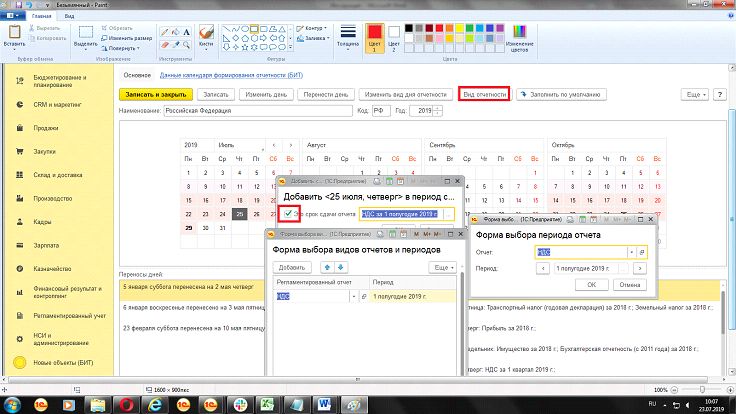
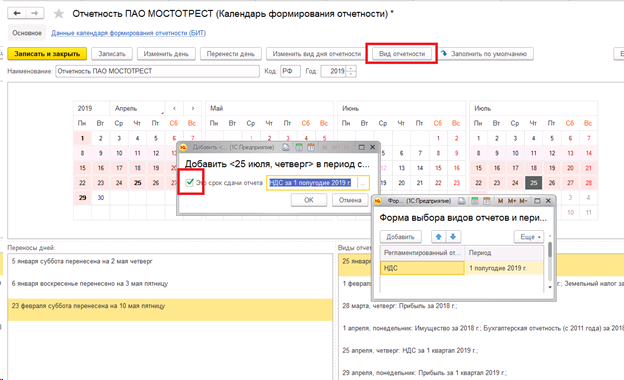
asup
+

diff --git a/js/all.js b/js/all.js
@@ -1142,8 +1142,8 @@ InputSync.prototype ={
 DR_EXPLAIN.namespace( 'DR_EXPLAIN.data_menu' );
 DR_EXPLAIN.data_menu = {
     // menu
-    DREX_NODE_NAMES: ["Начальная страница","1. Вопросы по аналитике ERP АСУП","2. ОПИСАНИЕ ОПЕРАЦИЙ","3. Вопросы по отражению операций","4. ТЕРМИНЫ И СОКРАЩЕНИЯ","5. ПОДГОТОВКА К РАБОТЕ","6. РЕКОМЕНДАЦИИ ПО ОСВОЕНИЮ","Описание изменений АСУП","1.1. Статьи бюджета","1.2. Формирование отчета «Графики отпусков команды» с учетом информации о периодах формирования и сдачи отчетности Общества","1.3. Функциональные блоки и разделы учета","Отчеты","2.1. Описание БП обработки Заявок на планируемый период","2.2. Инструкции по сопровождению","2.3. Инструкции по разработке","3.1. Как отразить состояние обработки Заявки?","3.2. Как отразить состояние обработки ЭО?","3.3. Как отразить состояние работ по задаче (задача проекта в сделке) ?","3.4. Как связать объект ERP с документом ДО?","3.5. Как отменить связь объекта ERP с документом ДО?","3.6. Как запланировать отпуск?","3.7. Не заполнена доступность ВРЦ на планируемый период, что делать?","3.8. Как запланировать выпуск работ по плану графику ЭО","3.9. Как оформить акт выполненных работ?","3.10. Как перепланировать работу в связи с появлением свободных часов?","5.1. Порядок проверки работоспособности","5.2. Порядок загрузки данных и программ","ERP","СППР","ДО","1.1.1. Как указать статью бюджета в заказе клиента?","1.2.1. Заполнение Календаря формирования отчетности","1.2.2. Сформировать отчет «Графики отпусков команды» с отбором по  «Календарь формирования отчетности» - «Российская Федерация»","АСУП Функциональные блоки: Состав","АСУП Разделы учета: Состав","ERP: Функциональные блоки","ERP: Разделы учета","Каким отчетом проверить количество и качество сделок на разработку?","Как сформировать отчет по заказам клиентов в разрезе видов сделок Сопровождение/Разработка?","Как посмотреть исполнение заказов клиентов?","Как посмотреть график отпусков команды?","БП реализации Заявки","РЕГУЛЯРНЫЕ ЗАДАЧИ БП","Практическое руководство пользователя по планированию и производству текущих работ по Сопровождению","2.3.1. Инструкциия по инструменту тестирования прикладных решений «Vanessa behavior»","2.3.2. Отражение отработанного времени в ERP","3.1.1. ДО: отражение состояния обработки Заявки","3.1.2. ERP: отражение состояния обработки Заявки (Сделка)","3.2.1. ДО: отражение состояния обработки ЭО","ERP: Создание, планирование и отражение состояние работ по задаче (задача проекта в сделке)","3.6.1. Формирование и согласование отпуска","3.6.2. Планирование отпуска в графике производства","Заполнить Производственный календрь","Заполнить График работы предприятия","Заполнить доступность ВРЦ","Заполнить внеплановую доступность ВРЦ","Новое в версии от 26.07.2019","Ввод данных по сопровождению","Ввод данных по разработке","Термины и определения","Планирование работ по Сопровождению в ЕРП","Оглавление","2.3.1.1. Feature файлы","2.3.1.2. Создание автотестов","2.3.1.3. Запуск выполнения сценариев","2.3.1.4. Требования к разработчикам","2.3.1.5. Требования к аналитикам","2.3.1.6. Детализация тестов","ERP: Изменение плановых дат задачи ( задача проекта в сделке)","Отражение кадрового документа «Отпуск»","Согласование кадрового документа «Отпуск»","График отпусков команды","Формирование ресурсной спецификации на отпуск","Формирование Заказа на  производств","Глоссарий","Список сокращений","Создание автоматизированных сценариев","Наполнение шагов сценариев кодом проверки поведения"],
-    DREX_NODE_LINKS: ["index.htm","voprosy_po_analitike_erp_asup.htm","opisanie_operatsij.htm","voprosy_po_otrazheniyu_operatsij.htm","terminy_i_sokrashcheniya.htm","podgotovka_k_rabote.htm","rekomendatsii_po_osvoeniyu.htm","opisanie_izmenenij_asup.htm","stati_byudzheta.htm","formirovanie_otcheta__grafiki_otpuskov_komandy__s_uchetom_informatsii_o_periodakh_formirovaniya_i_sdachi_otchetnosti_obshchestva.htm","funktsionalnye_bloki_i_razdely_ucheta.htm","otchety.htm","opisanie_bp_obrabotki_zayavok_na_planiruemyj_period.htm","instruktsii_po_soprovozhdeniyu.htm","instruktsii_po_razrabotke.htm","kak_otrazit_sostoyanie_obrabotki_zayavki_.htm","kak_otrazit_sostoyanie_obrabotki_eho_.htm","kak_otrazit_operatsiyu_v_novoj_sisteme_.htm","kak_svyazat_obekt_erp_s_dokumentom_do_.htm","kak_otmenit_svyaz_obekta_erp_s_dokumentom_do_.htm","kak_zaplanirovat_otpusk_.htm","ne_zapolnena_dostupnost_vrts_na_planiruemyj_period__chto_delat_.htm","kak_zaplanirovat_vypusk_rabot_po_planu_grafiku_eho.htm","kak_oformit_akt_vypolnennykh_rabot_.htm","kak_pereplanirovat_rabotu_v_svyazi_s_poyavleniem_svobodnykh_chasov_.htm","poryadok_proverki_rabotosposobnosti.htm","poryadok_zagruzki_dannykh_i_programm.htm","erp.htm","sppr.htm","do.htm","kak_ukazat_statyu_byudzheta_v_zakaze_klienta_.htm","zapolnenie_kalendarya_formirovaniya_otchetnosti.htm","sformirovat_otchet__grafiki_otpuskov_komandy__s_otborom_po___kalendar_formirovaniya_otchetnosti_____rossijskaya_federatsiya_.htm","asup_funktsionalnye_bloki__sostav.htm","asup_razdely_ucheta__sostav.htm","erp__funktsionalnye_bloki.htm","erp__razdely_ucheta.htm","kakim_otchetom_proverit_kolichestvo_i_kachestvo_sdelok_na_razrabotku_.htm","kak_sformirovat_otchet_po_zakazam_klientov_v_razreze_vidov_sdelok_soprovozhdenie_razrabotka_.htm","kak_posmotret_ispolnenie_zakazov_klientov_.htm","kak_posmotret_grafik_otpuskov_komandy_.htm","bp_realizatsii_zayavki.htm","regulyarnye_zadachi_bp.htm","prakticheskoe_rukovodstvo_polzovatelya_po_planirovaniyu_i_proizvodstvu_tekushchikh_rabot_po_soprovozhdeniyu.htm","instruktsiiya_po_instrumentu_testirovaniya_prikladnykh_reshenij__vanessa_behavior_.htm","otrazhenie_otrabotannogo_vremeni_v_erp.htm","do__otrazhenie_sostoyaniya_obrabotki_zayavki.htm","erp__otrazhenie_sostoyaniya_obrabotki_zayavki__sdelka_.htm","do__otrazhenie_sostoyaniya_obrabotki_eho.htm","erp__sozdanie__planirovanie_i_otrazhenie_sostoyanie_rabot_po_zadache__zadacha_proekta_v_sdelke_.htm","formirovanie_i_soglasovanie_otpuska.htm","planirovanie_otpuska_v_grafike_proizvodstva.htm","zapolnit_proizvodstvennyj_kalendr.htm","zapolnit_grafik_raboty_predpriyatiya.htm","zapolnit_dostupnost_vrts.htm","zapolnit_vneplanovuyu_dostupnost_vrts.htm","novoe_v_versii_ot_26_07_2019.htm","vvod_dannykh_po_soprovozhdeniyu.htm","vvod_dannykh_po_razrabotke.htm","terminy_i_opredeleniya.htm","planirovanie_rabot_po_soprovozhdeniyu_v_erp.htm","oglavlenie_2.htm","feature_fajly.htm","sozdanie_avtotestov.htm","zapusk_vypolneniya_stsenariev.htm","trebovaniya_k_razrabotchikam.htm","trebovaniya_k_analitikam.htm","detalizatsiya_testov.htm","erp__izmenenie_planovykh_dat_zadachi___zadacha_proekta_v_sdelke_.htm","otrazhenie_kadrovogo_dokumenta__otpusk_.htm","soglasovanie_kadrovogo_dokumenta__otpusk_.htm","grafik_otpuskov_komandy.htm","formirovanie_resursnoj_spetsifikatsii_na_otpusk.htm","formirovanie_zakaza_na__proizvodstv.htm","glossarij.htm","spisok_sokrashchenij.htm","sozdanie_avtomatizirovannykh_stsenariev.htm","napolnenie_shagov_stsenariev_kodom_proverki_povedeniya.htm"],
+    DREX_NODE_NAMES: ["Начальная страница","1. Вопросы по аналитике ERP АСУП","2. ОПИСАНИЕ ОПЕРАЦИЙ","3. Вопросы по отражению операций","4. ТЕРМИНЫ И СОКРАЩЕНИЯ","5. ПОДГОТОВКА К РАБОТЕ","6. РЕКОМЕНДАЦИИ ПО ОСВОЕНИЮ","Описание изменений АСУП","1.1. Статьи бюджета","1.2. Формирование отчета «Графики отпусков команды» с учетом информации о периодах формирования и сдачи отчетности Общества","1.3. Функциональные блоки и разделы учета","Отчеты","2.1. Описание БП обработки Заявок на планируемый период","2.2. Инструкции по сопровождению","2.3. Инструкции по разработке","3.1. Как отразить состояние обработки Заявки?","3.2. Как отразить состояние обработки ЭО?","3.3. Как отразить состояние работ по задаче (задача проекта в сделке) ?","3.4. Как связать объект ERP с документом ДО?","3.5. Как отменить связь объекта ERP с документом ДО?","3.6. Как запланировать отпуск?","3.7. Не заполнена доступность ВРЦ на планируемый период, что делать?","3.8. Как запланировать выпуск работ по плану графику ЭО","3.9. Как оформить акт выполненных работ?","3.10. Как перепланировать работу в связи с появлением свободных часов?","5.1. Порядок проверки работоспособности","5.2. Порядок загрузки данных и программ","ERP","СППР","ДО","1.1.1. Как указать статью бюджета в заказе клиента?","1.2.1. Заполнение Календаря формирования отчетности","1.2.2. Сформировать отчет «Графики отпусков команды» с отбором по  «Календарь формирования отчетности» - «Отчетность ПАО МОСТОТРЕСТ»","АСУП Функциональные блоки: Состав","АСУП Разделы учета: Состав","ERP: Функциональные блоки","ERP: Разделы учета","Каким отчетом проверить количество и качество сделок на разработку?","Как сформировать отчет по заказам клиентов в разрезе видов сделок Сопровождение/Разработка?","Как посмотреть исполнение заказов клиентов?","Как посмотреть график отпусков команды?","БП реализации Заявки","РЕГУЛЯРНЫЕ ЗАДАЧИ БП","Практическое руководство пользователя по планированию и производству текущих работ по Сопровождению","2.3.1. Инструкциия по инструменту тестирования прикладных решений «Vanessa behavior»","2.3.2. Отражение отработанного времени в ERP","3.1.1. ДО: отражение состояния обработки Заявки","3.1.2. ERP: отражение состояния обработки Заявки (Сделка)","3.2.1. ДО: отражение состояния обработки ЭО","ERP: Создание, планирование и отражение состояние работ по задаче (задача проекта в сделке)","3.6.1. Формирование и согласование отпуска","3.6.2. Планирование отпуска в графике производства","Заполнить Производственный календрь","Заполнить График работы предприятия","Заполнить доступность ВРЦ","Заполнить внеплановую доступность ВРЦ","Новое в версии от 26.07.2019","Ввод данных по сопровождению","Ввод данных по разработке","Термины и определения","Планирование работ по Сопровождению в ЕРП","Оглавление","2.3.1.1. Feature файлы","2.3.1.2. Создание автотестов","2.3.1.3. Запуск выполнения сценариев","2.3.1.4. Требования к разработчикам","2.3.1.5. Требования к аналитикам","2.3.1.6. Детализация тестов","ERP: Изменение плановых дат задачи ( задача проекта в сделке)","Отражение кадрового документа «Отпуск»","Согласование кадрового документа «Отпуск»","График отпусков команды","Формирование ресурсной спецификации на отпуск","Формирование Заказа на  производств","Глоссарий","Список сокращений","Создание автоматизированных сценариев","Наполнение шагов сценариев кодом проверки поведения"],
+    DREX_NODE_LINKS: ["index.htm","voprosy_po_analitike_erp_asup.htm","opisanie_operatsij.htm","voprosy_po_otrazheniyu_operatsij.htm","terminy_i_sokrashcheniya.htm","podgotovka_k_rabote.htm","rekomendatsii_po_osvoeniyu.htm","opisanie_izmenenij_asup.htm","stati_byudzheta.htm","formirovanie_otcheta__grafiki_otpuskov_komandy__s_uchetom_informatsii_o_periodakh_formirovaniya_i_sdachi_otchetnosti_obshchestva.htm","funktsionalnye_bloki_i_razdely_ucheta.htm","otchety.htm","opisanie_bp_obrabotki_zayavok_na_planiruemyj_period.htm","instruktsii_po_soprovozhdeniyu.htm","instruktsii_po_razrabotke.htm","kak_otrazit_sostoyanie_obrabotki_zayavki_.htm","kak_otrazit_sostoyanie_obrabotki_eho_.htm","kak_otrazit_operatsiyu_v_novoj_sisteme_.htm","kak_svyazat_obekt_erp_s_dokumentom_do_.htm","kak_otmenit_svyaz_obekta_erp_s_dokumentom_do_.htm","kak_zaplanirovat_otpusk_.htm","ne_zapolnena_dostupnost_vrts_na_planiruemyj_period__chto_delat_.htm","kak_zaplanirovat_vypusk_rabot_po_planu_grafiku_eho.htm","kak_oformit_akt_vypolnennykh_rabot_.htm","kak_pereplanirovat_rabotu_v_svyazi_s_poyavleniem_svobodnykh_chasov_.htm","poryadok_proverki_rabotosposobnosti.htm","poryadok_zagruzki_dannykh_i_programm.htm","erp.htm","sppr.htm","do.htm","kak_ukazat_statyu_byudzheta_v_zakaze_klienta_.htm","zapolnenie_kalendarya_formirovaniya_otchetnosti.htm","sformirovat_otchet__grafiki_otpuskov_komandy__s_otborom_po___kalendar_formirovaniya_otchetnosti_____otchetnost_pao_mostotrest_.htm","asup_funktsionalnye_bloki__sostav.htm","asup_razdely_ucheta__sostav.htm","erp__funktsionalnye_bloki.htm","erp__razdely_ucheta.htm","kakim_otchetom_proverit_kolichestvo_i_kachestvo_sdelok_na_razrabotku_.htm","kak_sformirovat_otchet_po_zakazam_klientov_v_razreze_vidov_sdelok_soprovozhdenie_razrabotka_.htm","kak_posmotret_ispolnenie_zakazov_klientov_.htm","kak_posmotret_grafik_otpuskov_komandy_.htm","bp_realizatsii_zayavki.htm","regulyarnye_zadachi_bp.htm","prakticheskoe_rukovodstvo_polzovatelya_po_planirovaniyu_i_proizvodstvu_tekushchikh_rabot_po_soprovozhdeniyu.htm","instruktsiiya_po_instrumentu_testirovaniya_prikladnykh_reshenij__vanessa_behavior_.htm","otrazhenie_otrabotannogo_vremeni_v_erp.htm","do__otrazhenie_sostoyaniya_obrabotki_zayavki.htm","erp__otrazhenie_sostoyaniya_obrabotki_zayavki__sdelka_.htm","do__otrazhenie_sostoyaniya_obrabotki_eho.htm","erp__sozdanie__planirovanie_i_otrazhenie_sostoyanie_rabot_po_zadache__zadacha_proekta_v_sdelke_.htm","formirovanie_i_soglasovanie_otpuska.htm","planirovanie_otpuska_v_grafike_proizvodstva.htm","zapolnit_proizvodstvennyj_kalendr.htm","zapolnit_grafik_raboty_predpriyatiya.htm","zapolnit_dostupnost_vrts.htm","zapolnit_vneplanovuyu_dostupnost_vrts.htm","novoe_v_versii_ot_26_07_2019.htm","vvod_dannykh_po_soprovozhdeniyu.htm","vvod_dannykh_po_razrabotke.htm","terminy_i_opredeleniya.htm","planirovanie_rabot_po_soprovozhdeniyu_v_erp.htm","oglavlenie_2.htm","feature_fajly.htm","sozdanie_avtotestov.htm","zapusk_vypolneniya_stsenariev.htm","trebovaniya_k_razrabotchikam.htm","trebovaniya_k_analitikam.htm","detalizatsiya_testov.htm","erp__izmenenie_planovykh_dat_zadachi___zadacha_proekta_v_sdelke_.htm","otrazhenie_kadrovogo_dokumenta__otpusk_.htm","soglasovanie_kadrovogo_dokumenta__otpusk_.htm","grafik_otpuskov_komandy.htm","formirovanie_resursnoj_spetsifikatsii_na_otpusk.htm","formirovanie_zakaza_na__proizvodstv.htm","glossarij.htm","spisok_sokrashchenij.htm","sozdanie_avtomatizirovannykh_stsenariev.htm","napolnenie_shagov_stsenariev_kodom_proverki_povedeniya.htm"],
     DREX_NODE_CHILD_START: [1,8,12,15,25,25,27,27,30,31,33,37,41,43,44,46,48,49,50,50,50,52,56,56,56,56,56,56,57,57,57,57,57,57,57,57,57,57,57,59,59,59,59,59,61,68,68,68,68,68,69,72,74,74,74,74,74,74,74,74,76,76,76,76,78,78,78,78,78,78,78,78,78,78,78,78,78,78],
     DREX_NODE_CHILD_END: [8,12,15,25,25,27,27,30,31,33,37,41,43,44,46,48,49,50,50,50,52,56,56,56,56,56,56,57,57,57,57,57,57,57,57,57,57,57,59,59,59,59,59,61,68,68,68,68,68,69,72,74,74,74,74,74,74,74,74,76,76,76,76,78,78,78,78,78,78,78,78,78,78,78,78,78,78,78],
     DREX_MENU_TYPE: 2,

diff --git a/sformirovat_otchet__grafiki_otpuskov_komandy__s_otborom_po___kalendar_formirovaniya_otchetnosti_____otchetnost_pao_mostotrest_.htm b/sformirovat_otchet__grafiki_otpuskov_komandy__s_otborom_po___kalendar_formirovaniya_otchetnosti_____otchetnost_pao_mostotrest_.htm
@@ -12,11 +12,11 @@
 
     <script type="text/javascript">
     //<![CDATA[
-        drex_file_name = "sformirovat_otchet__grafiki_otpuskov_komandy__s_otborom_po___kalendar_formirovaniya_otchetnosti_____rossijskaya_federatsiya_.htm";
+        drex_file_name = "sformirovat_otchet__grafiki_otpuskov_komandy__s_otborom_po___kalendar_formirovaniya_otchetnosti_____otchetnost_pao_mostotrest_.htm";
     //]]>
     </script>
 
-    		<title>1.2.2. &#x0421;&#x0444;&#x043E;&#x0440;&#x043C;&#x0438;&#x0440;&#x043E;&#x0432;&#x0430;&#x0442;&#x044C; &#x043E;&#x0442;&#x0447;&#x0435;&#x0442; &#x00AB;&#x0413;&#x0440;&#x0430;&#x0444;&#x0438;&#x043A;&#x0438; &#x043E;&#x0442;&#x043F;&#x0443;&#x0441;&#x043A;&#x043E;&#x0432; &#x043A;&#x043E;&#x043C;&#x0430;&#x043D;&#x0434;&#x044B;&#x00BB; &#x0441; &#x043E;&#x0442;&#x0431;&#x043E;&#x0440;&#x043E;&#x043C; &#x043F;&#x043E;  &#x00AB;&#x041A;&#x0430;&#x043B;&#x0435;&#x043D;&#x0434;&#x0430;&#x0440;&#x044C; &#x0444;&#x043E;&#x0440;&#x043C;&#x0438;&#x0440;&#x043E;&#x0432;&#x0430;&#x043D;&#x0438;&#x044F; &#x043E;&#x0442;&#x0447;&#x0435;&#x0442;&#x043D;&#x043E;&#x0441;&#x0442;&#x0438;&#x00BB; - &#x00AB;&#x0420;&#x043E;&#x0441;&#x0441;&#x0438;&#x0439;&#x0441;&#x043A;&#x0430;&#x044F; &#x0424;&#x0435;&#x0434;&#x0435;&#x0440;&#x0430;&#x0446;&#x0438;&#x044F;&#x00BB;</title>
+    		<title>1.2.2. &#x0421;&#x0444;&#x043E;&#x0440;&#x043C;&#x0438;&#x0440;&#x043E;&#x0432;&#x0430;&#x0442;&#x044C; &#x043E;&#x0442;&#x0447;&#x0435;&#x0442; &#x00AB;&#x0413;&#x0440;&#x0430;&#x0444;&#x0438;&#x043A;&#x0438; &#x043E;&#x0442;&#x043F;&#x0443;&#x0441;&#x043A;&#x043E;&#x0432; &#x043A;&#x043E;&#x043C;&#x0430;&#x043D;&#x0434;&#x044B;&#x00BB; &#x0441; &#x043E;&#x0442;&#x0431;&#x043E;&#x0440;&#x043E;&#x043C; &#x043F;&#x043E;  &#x00AB;&#x041A;&#x0430;&#x043B;&#x0435;&#x043D;&#x0434;&#x0430;&#x0440;&#x044C; &#x0444;&#x043E;&#x0440;&#x043C;&#x0438;&#x0440;&#x043E;&#x0432;&#x0430;&#x043D;&#x0438;&#x044F; &#x043E;&#x0442;&#x0447;&#x0435;&#x0442;&#x043D;&#x043E;&#x0441;&#x0442;&#x0438;&#x00BB; - &#x00AB;&#x041E;&#x0442;&#x0447;&#x0435;&#x0442;&#x043D;&#x043E;&#x0441;&#x0442;&#x044C; &#x041F;&#x0410;&#x041E; &#x041C;&#x041E;&#x0421;&#x0422;&#x041E;&#x0422;&#x0420;&#x0415;&#x0421;&#x0422;&#x00BB;</title>
 
     <link rel="stylesheet" type="text/css" href="css/all.css" media="all" />
     <link rel="stylesheet" href="de_style.css" type="text/css" media="all" />
@@ -249,7 +249,7 @@
 
 <li class="b-breadCrumbs__item"><a href="formirovanie_otcheta__grafiki_otpuskov_komandy__s_uchetom_informatsii_o_periodakh_formirovaniya_i_sdachi_otchetnosti_obshchestva.htm" class="b-breadCrumbs__link">1.2. &#x0424;&#x043E;&#x0440;&#x043C;&#x0438;&#x0440;&#x043E;&#x0432;&#x0430;&#x043D;&#x0438;&#x0435; &#x043E;&#x0442;&#x0447;&#x0435;&#x0442;&#x0430; &#x00AB;&#x0413;&#x0440;&#x0430;&#x0444;&#x0438;&#x043A;&#x0438; &#x043E;&#x0442;&#x043F;&#x0443;&#x0441;&#x043A;&#x043E;&#x0432; &#x043A;&#x043E;&#x043C;&#x0430;&#x043D;&#x0434;&#x044B;&#x00BB; &#x0441; &#x0443;&#x0447;&#x0435;&#x0442;&#x043E;&#x043C; &#x0438;&#x043D;&#x0444;&#x043E;&#x0440;&#x043C;&#x0430;&#x0446;&#x0438;&#x0438; &#x043E; &#x043F;&#x0435;&#x0440;&#x0438;&#x043E;&#x0434;&#x0430;&#x0445; &#x0444;&#x043E;&#x0440;&#x043C;&#x0438;&#x0440;&#x043E;&#x0432;&#x0430;&#x043D;&#x0438;&#x044F; &#x0438; &#x0441;&#x0434;&#x0430;&#x0447;&#x0438; &#x043E;&#x0442;&#x0447;&#x0435;&#x0442;&#x043D;&#x043E;&#x0441;&#x0442;&#x0438; &#x041E;&#x0431;&#x0449;&#x0435;&#x0441;&#x0442;&#x0432;&#x0430;</a></li>
 
-<li class="b-breadCrumbs__item">1.2.2. &#x0421;&#x0444;&#x043E;&#x0440;&#x043C;&#x0438;&#x0440;&#x043E;&#x0432;&#x0430;&#x0442;&#x044C; &#x043E;&#x0442;&#x0447;&#x0435;&#x0442; &#x00AB;&#x0413;&#x0440;&#x0430;&#x0444;&#x0438;&#x043A;&#x0438; &#x043E;&#x0442;&#x043F;&#x0443;&#x0441;&#x043A;&#x043E;&#x0432; &#x043A;&#x043E;&#x043C;&#x0430;&#x043D;&#x0434;&#x044B;&#x00BB; &#x0441; &#x043E;&#x0442;&#x0431;&#x043E;&#x0440;&#x043E;&#x043C; &#x043F;&#x043E;  &#x00AB;&#x041A;&#x0430;&#x043B;&#x0435;&#x043D;&#x0434;&#x0430;&#x0440;&#x044C; &#x0444;&#x043E;&#x0440;&#x043C;&#x0438;&#x0440;&#x043E;&#x0432;&#x0430;&#x043D;&#x0438;&#x044F; &#x043E;&#x0442;&#x0447;&#x0435;&#x0442;&#x043D;&#x043E;&#x0441;&#x0442;&#x0438;&#x00BB; - &#x00AB;&#x0420;&#x043E;&#x0441;&#x0441;&#x0438;&#x0439;&#x0441;&#x043A;&#x0430;&#x044F; &#x0424;&#x0435;&#x0434;&#x0435;&#x0440;&#x0430;&#x0446;&#x0438;&#x044F;&#x00BB;</li>
+<li class="b-breadCrumbs__item">1.2.2. &#x0421;&#x0444;&#x043E;&#x0440;&#x043C;&#x0438;&#x0440;&#x043E;&#x0432;&#x0430;&#x0442;&#x044C; &#x043E;&#x0442;&#x0447;&#x0435;&#x0442; &#x00AB;&#x0413;&#x0440;&#x0430;&#x0444;&#x0438;&#x043A;&#x0438; &#x043E;&#x0442;&#x043F;&#x0443;&#x0441;&#x043A;&#x043E;&#x0432; &#x043A;&#x043E;&#x043C;&#x0430;&#x043D;&#x0434;&#x044B;&#x00BB; &#x0441; &#x043E;&#x0442;&#x0431;&#x043E;&#x0440;&#x043E;&#x043C; &#x043F;&#x043E;  &#x00AB;&#x041A;&#x0430;&#x043B;&#x0435;&#x043D;&#x0434;&#x0430;&#x0440;&#x044C; &#x0444;&#x043E;&#x0440;&#x043C;&#x0438;&#x0440;&#x043E;&#x0432;&#x0430;&#x043D;&#x0438;&#x044F; &#x043E;&#x0442;&#x0447;&#x0435;&#x0442;&#x043D;&#x043E;&#x0441;&#x0442;&#x0438;&#x00BB; - &#x00AB;&#x041E;&#x0442;&#x0447;&#x0435;&#x0442;&#x043D;&#x043E;&#x0441;&#x0442;&#x044C; &#x041F;&#x0410;&#x041E; &#x041C;&#x041E;&#x0421;&#x0422;&#x041E;&#x0422;&#x0420;&#x0415;&#x0421;&#x0422;&#x00BB;</li>
 </ul>                    </div>
                 </td>
                 <td id="headerSide__buttons" class="b-article__headerSide m-article__headerSide__buttons">
@@ -334,10 +334,13 @@
     <noscript>
     <div>To properly display this page you need a browser with JavaScript support.</div>
     </noscript>
-                <div class="description_on_page"><div class="p" style="text-align: center; direction: ltr; margin-left: 0px; text-indent: 0px;"><div class="ic"><h1><strong>1.2.2. Сформировать отчет «Графики отпусков команды» с отбором по&#160; «Календарь формирования отчетности» - «Российская Федерация»</strong></h1></div></div>
+                <div class="description_on_page"><div class="p" style="text-align: center; direction: ltr; margin-left: 0px; text-indent: 0px;"><div class="ic"><h1><strong>1.2.2. Сформировать отчет «Графики отпусков команды» с отбором по&#160; «Календарь формирования отчетности» - «Отчетность ПАО МОСТОТРЕСТ»</strong></h1></div></div>
 <div class="p" style="text-align: left; direction: ltr; margin-left: 0px; text-indent: 0px;">&#160;</div>
 <div class="p" style="text-align: left; direction: ltr; margin-left: 0px; text-indent: 0px;"><span class="de_4CD179DA38">Отчет предназначен для просмотра и анализа отпусков команды проекта, доступен пользователям в&#160; меню «Кадры» - «Кадровые отчеты» - «График отпусков команды проекта».</span></div>
-<div class="p" style="text-align: left; direction: ltr; margin-left: 0px; text-indent: 0px;"><span class="de_4CD179DA38">Для формирования отчета «График отпусков команды проекта» с учетом периодов отчетности необходимо установить отбор по&#160; «Календарь формирования отчетности» - «Российская Федерация»<img  alt="" style="border: solid 0px;  " width="768" height="432" class=" de_780D01ADE8" src="drex_sformirovat_otchet__grafiki_otpuskov_komandy__s_otborom_po___kalendar_formirovaniya_otchetnosti_____rossijskaya_federatsiya__custom.png"/></span></div>
+<div class="p" style="text-align: left; direction: ltr; margin-left: 0px; text-indent: 0px;"><span class="de_4CD179DA38">Для формирования отчета «График отпусков команды проекта» с учетом периодов отчетности необходимо установить отбор по&#160; «Календарь формирования отчетности» - «Отчетность ПАО МОСТОТРЕСТ»</span></div>
+<div class="p" style="text-align: left; direction: ltr; margin-left: 0px; text-indent: 0px;">&#160;</div>
+<div class="p" style="text-align: left; direction: ltr; margin-left: 0px; text-indent: 0px;"><img  alt="" style="border: solid 0px;  " width="624" height="368" class=" de_780D01ADE8" src="drex_sformirovat_otchet__grafiki_otpuskov_komandy__s_otborom_po___kalendar_formirovaniya_otchetnosti_____otchetnost_pao_mostotrest__custom.png"/></div>
+<div class="p" style="text-align: left; direction: ltr; margin-left: 0px; text-indent: 0px;">&#160;</div>
 <div class="p" style="text-align: left; direction: ltr; margin-left: 0px; text-indent: 0px;">&#160;</div>
 <div class="p" style="text-align: left; direction: ltr; margin-left: 0px; text-indent: 0px;">&#160;</div>
 </div>                                    			

diff --git a/zapolnenie_kalendarya_formirovaniya_otchetnosti.htm b/zapolnenie_kalendarya_formirovaniya_otchetnosti.htm
@@ -256,7 +256,7 @@
                     <div class="b-controlButtons">
                         <ul class="b-controlButtons__items">
                             <li class="b-controlButtons__item m-controlButtons__item__prev"><a href="formirovanie_otcheta__grafiki_otpuskov_komandy__s_uchetom_informatsii_o_periodakh_formirovaniya_i_sdachi_otchetnosti_obshchestva.htm" class="b-controlButtons__link" title="&#x041F;&#x0440;&#x0435;&#x0434;&#x044B;&#x0434;&#x0443;&#x0449;&#x0430;&#x044F;"><span class="b-controlButtons__link_icon"></span><span class="b-controlButtons__link_text">&#xa0;&#x041F;&#x0440;&#x0435;&#x0434;&#x044B;&#x0434;&#x0443;&#x0449;&#x0430;&#x044F;</span></a></li>
-                            <li class="b-controlButtons__item m-controlButtons__item__next"><a href="sformirovat_otchet__grafiki_otpuskov_komandy__s_otborom_po___kalendar_formirovaniya_otchetnosti_____rossijskaya_federatsiya_.htm" class="b-controlButtons__link" title="&#x0421;&#x043B;&#x0435;&#x0434;&#x0443;&#x044E;&#x0449;&#x0430;&#x044F;"><span class="b-controlButtons__link_text">&#x0421;&#x043B;&#x0435;&#x0434;&#x0443;&#x044E;&#x0449;&#x0430;&#x044F;&#xa0;</span><span class="b-controlButtons__link_icon"></span></a></li>
+                            <li class="b-controlButtons__item m-controlButtons__item__next"><a href="sformirovat_otchet__grafiki_otpuskov_komandy__s_otborom_po___kalendar_formirovaniya_otchetnosti_____otchetnost_pao_mostotrest_.htm" class="b-controlButtons__link" title="&#x0421;&#x043B;&#x0435;&#x0434;&#x0443;&#x044E;&#x0449;&#x0430;&#x044F;"><span class="b-controlButtons__link_text">&#x0421;&#x043B;&#x0435;&#x0434;&#x0443;&#x044E;&#x0449;&#x0430;&#x044F;&#xa0;</span><span class="b-controlButtons__link_icon"></span></a></li>
                                                 </ul>
                     </div>
                 </td>
@@ -285,7 +285,7 @@
                             .addClass("b-article__headerSide m-article__headerSide__buttons")
                             .append(
                                 $("<div></div>").addClass("b-controlButtons")
-                                .html($("<ul></ul>").addClass("b-controlButtons__items").html("    <li class=\"b-controlButtons__item m-controlButtons__item__prev\"><a href=\"formirovanie_otcheta__grafiki_otpuskov_komandy__s_uchetom_informatsii_o_periodakh_formirovaniya_i_sdachi_otchetnosti_obshchestva.htm\" class=\"b-controlButtons__link\" title=\"&#x041F;&#x0440;&#x0435;&#x0434;&#x044B;&#x0434;&#x0443;&#x0449;&#x0430;&#x044F;\"><span class=\"b-controlButtons__link_icon\"></span><span class=\"b-controlButtons__link_text\">&#xa0;&#x041F;&#x0440;&#x0435;&#x0434;&#x044B;&#x0434;&#x0443;&#x0449;&#x0430;&#x044F;</span></a></li>\n    <li class=\"b-controlButtons__item m-controlButtons__item__next\"><a href=\"sformirovat_otchet__grafiki_otpuskov_komandy__s_otborom_po___kalendar_formirovaniya_otchetnosti_____rossijskaya_federatsiya_.htm\" class=\"b-controlButtons__link\" title=\"&#x0421;&#x043B;&#x0435;&#x0434;&#x0443;&#x044E;&#x0449;&#x0430;&#x044F;\"><span class=\"b-controlButtons__link_text\">&#x0421;&#x043B;&#x0435;&#x0434;&#x0443;&#x044E;&#x0449;&#x0430;&#x044F;&#xa0;</span><span class=\"b-controlButtons__link_icon\"></span></a></li>\n"))
+                                .html($("<ul></ul>").addClass("b-controlButtons__items").html("    <li class=\"b-controlButtons__item m-controlButtons__item__prev\"><a href=\"formirovanie_otcheta__grafiki_otpuskov_komandy__s_uchetom_informatsii_o_periodakh_formirovaniya_i_sdachi_otchetnosti_obshchestva.htm\" class=\"b-controlButtons__link\" title=\"&#x041F;&#x0440;&#x0435;&#x0434;&#x044B;&#x0434;&#x0443;&#x0449;&#x0430;&#x044F;\"><span class=\"b-controlButtons__link_icon\"></span><span class=\"b-controlButtons__link_text\">&#xa0;&#x041F;&#x0440;&#x0435;&#x0434;&#x044B;&#x0434;&#x0443;&#x0449;&#x0430;&#x044F;</span></a></li>\n    <li class=\"b-controlButtons__item m-controlButtons__item__next\"><a href=\"sformirovat_otchet__grafiki_otpuskov_komandy__s_otborom_po___kalendar_formirovaniya_otchetnosti_____otchetnost_pao_mostotrest_.htm\" class=\"b-controlButtons__link\" title=\"&#x0421;&#x043B;&#x0435;&#x0434;&#x0443;&#x044E;&#x0449;&#x0430;&#x044F;\"><span class=\"b-controlButtons__link_text\">&#x0421;&#x043B;&#x0435;&#x0434;&#x0443;&#x044E;&#x0449;&#x0430;&#x044F;&#xa0;</span><span class=\"b-controlButtons__link_icon\"></span></a></li>\n"))
                             )
                         )
                     )
@@ -348,13 +348,13 @@
 <div class="p" style="text-align: left; direction: ltr; margin-left: 0px; text-indent: 0px;"><span class="de_D305498EDE">· &#160; &#160; </span><span class="de_4CD179DA38">Период формирования отчетности – светло-красный окрас</span></div>
 <div class="p" style="text-align: left; direction: ltr; margin-left: 0px; text-indent: 0px;"><span class="de_D305498EDE">· &#160; &#160; </span><span class="de_4CD179DA38">Период сдачи отчетности – красный окрас</span></div>
 <div class="p" style="text-align: left; direction: ltr; margin-left: 0px; text-indent: 0px;"><span class="de_4CD179DA38">1.4 В случае необходимости установить наименования сдаваемых отчетов для любого из дней периода сдачи отчетности по кнопке «Вид отчетности» - установить признак «Это срок сдачи отчета» - выбрать отчет и установить период.</span></div>
-<div class="p" style="text-align: left; direction: ltr; margin-left: 0px; text-indent: 0px;"><img  alt="" style="border: solid 0px;  " width="736" height="414" class=" de_780D01ADE8" src="drex_zapolnenie_kalendarya_formirovaniya_otchetnosti_custom.png"/></div>
+<div class="p" style="text-align: left; direction: ltr; margin-left: 0px; text-indent: 0px;"><img  alt="" style="border: solid 0px;  " width="624" height="380" class=" de_780D01ADE8" src="drex_zapolnenie_kalendarya_formirovaniya_otchetnosti_custom.png"/></div>
 <div class="p" style="text-align: left; direction: ltr; margin-left: 0px; text-indent: 0px;">&#160;</div>
 <div class="p" style="text-align: left; direction: ltr; margin-left: 0px; text-indent: 0px;"><span class="de_4CD179DA38">Наименования отчетов отражены в ТЧ «Виды отчетов»:</span></div>
-<div class="p" style="text-align: left; direction: ltr; margin-left: 0px; text-indent: 0px;"><img  alt="" style="border: solid 0px;  " width="1056" height="585" class=" de_780D01ADE8" src="drex_zapolnenie_kalendarya_formirovaniya_otchetnosti_custom_2.png"/></div>
+<div class="p" style="text-align: left; direction: ltr; margin-left: 0px; text-indent: 0px;"><img  alt="" style="border: solid 0px;  " width="420" height="194" class=" de_780D01ADE8" src="drex_zapolnenie_kalendarya_formirovaniya_otchetnosti_custom_2.png"/></div>
 <div class="p" style="text-align: left; direction: ltr; margin-left: 0px; text-indent: 0px;">&#160;</div>
 <div class="p" style="text-align: left; direction: ltr; margin-left: 0px; text-indent: 0px;"><span class="de_4CD179DA38">После заполнения, календарь необходимо записать по кнопке «Записать и закрыть». Проверить сформированные движения можно в РС «Данные календаря формирования отчетности». </span></div>
-<div class="p" style="text-align: left; direction: ltr; margin-left: 0px; text-indent: 0px;"><img  alt="" style="border: solid 0px;  " width="768" height="432" class=" de_780D01ADE8" src="drex_zapolnenie_kalendarya_formirovaniya_otchetnosti_custom_3.png"/></div>
+<div class="p" style="text-align: left; direction: ltr; margin-left: 0px; text-indent: 0px;"><img  alt="" style="border: solid 0px;  " width="590" height="311" class=" de_780D01ADE8" src="drex_zapolnenie_kalendarya_formirovaniya_otchetnosti_custom_3.png"/></div>
 <div class="p" style="text-align: left; direction: ltr; margin-left: 0px; text-indent: 0px;">&#160;</div>
 <div class="p" style="text-align: left; direction: ltr; margin-left: 0px; text-indent: 0px;">&#160;</div>
 </div>                                    			

diff --git a/formirovanie_otcheta__grafiki_otpuskov_komandy__s_uchetom_informatsii_o_periodakh_formirovaniya_i_sdachi_otchetnosti_obshchestva.htm b/formirovanie_otcheta__grafiki_otpuskov_komandy__s_uchetom_informatsii_o_periodakh_formirovaniya_i_sdachi_otchetnosti_obshchestva.htm
@@ -337,7 +337,7 @@
 <div class="p" style="text-align: left; direction: ltr; margin-left: 0px; text-indent: 0px;"><span class="de_4240AE2C05"><strong>Цель:</strong></span><span class="de_4CD179DA38"> Сформировать отчет «Графики отпусков команды» с учетом информации о периодах формирования и сдачи отчетности Общества.</span></div>
 <div class="p" style="text-align: left; direction: ltr; margin-left: 0px; text-indent: 0px;"><span class="de_4240AE2C05"><strong>Решение:</strong></span></div>
 <div class="p" style="text-align: left; direction: ltr; margin-left: 0px; text-indent: 0px;"><span class="de_4CD179DA38">1. Заполнить элемент справочника «Календари формирования отчетности». </span></div>
-<div class="p" style="text-align: left; direction: ltr; margin-left: 0px; text-indent: 0px;"><span class="de_4CD179DA38">2. Сформировать отчет «Графики отпусков команды» с отбором по&#160; «Календарь формирования отчетности» - «Российская Федерация»</span></div>
+<div class="p" style="text-align: left; direction: ltr; margin-left: 0px; text-indent: 0px;"><span class="de_4CD179DA38">2. Сформировать отчет «Графики отпусков команды» с отбором по&#160; «Календарь формирования отчетности» - «Отчетность ПАО МОСТОТРЕСТ»</span></div>
 <div class="p" style="text-align: left; direction: ltr; margin-left: 0px; text-indent: 0px;">&#160;</div>
 </div>                	<div class="menu_on_page">
 		<h2>&#x0421;&#x043E;&#x0434;&#x0435;&#x0440;&#x0436;&#x0430;&#x043D;&#x0438;&#x0435; 1.2. &#x0424;&#x043E;&#x0440;&#x043C;&#x0438;&#x0440;&#x043E;&#x0432;&#x0430;&#x043D;&#x0438;&#x0435; &#x043E;&#x0442;&#x0447;&#x0435;&#x0442;&#x0430; &#x00AB;&#x0413;&#x0440;&#x0430;&#x0444;&#x0438;&#x043A;&#x0438; &#x043E;&#x0442;&#x043F;&#x0443;&#x0441;&#x043A;&#x043E;&#x0432; &#x043A;&#x043E;&#x043C;&#x0430;&#x043D;&#x0434;&#x044B;&#x00BB; &#x0441; &#x0443;&#x0447;&#x0435;&#x0442;&#x043E;&#x043C; &#x0438;&#x043D;&#x0444;&#x043E;&#x0440;&#x043C;&#x0430;&#x0446;&#x0438;&#x0438; &#x043E; &#x043F;&#x0435;&#x0440;&#x0438;&#x043E;&#x0434;&#x0430;&#x0445; &#x0444;&#x043E;&#x0440;&#x043C;&#x0438;&#x0440;&#x043E;&#x0432;&#x0430;&#x043D;&#x0438;&#x044F; &#x0438; &#x0441;&#x0434;&#x0430;&#x0447;&#x0438; &#x043E;&#x0442;&#x0447;&#x0435;&#x0442;&#x043D;&#x043E;&#x0441;&#x0442;&#x0438; &#x041E;&#x0431;&#x0449;&#x0435;&#x0441;&#x0442;&#x0432;&#x0430;</h2>
@@ -354,7 +354,7 @@
 			<span class="b-tree__i_article_inner"></span>
 		</span>
 	</span>
-	<span class="b-tree__itemText"><a class="b-breadCrumbs__link" href="sformirovat_otchet__grafiki_otpuskov_komandy__s_otborom_po___kalendar_formirovaniya_otchetnosti_____rossijskaya_federatsiya_.htm">1.2.2. &#x0421;&#x0444;&#x043E;&#x0440;&#x043C;&#x0438;&#x0440;&#x043E;&#x0432;&#x0430;&#x0442;&#x044C; &#x043E;&#x0442;&#x0447;&#x0435;&#x0442; &#x00AB;&#x0413;&#x0440;&#x0430;&#x0444;&#x0438;&#x043A;&#x0438; &#x043E;&#x0442;&#x043F;&#x0443;&#x0441;&#x043A;&#x043E;&#x0432; &#x043A;&#x043E;&#x043C;&#x0430;&#x043D;&#x0434;&#x044B;&#x00BB; &#x0441; &#x043E;&#x0442;&#x0431;&#x043E;&#x0440;&#x043E;&#x043C; &#x043F;&#x043E;  &#x00AB;&#x041A;&#x0430;&#x043B;&#x0435;&#x043D;&#x0434;&#x0430;&#x0440;&#x044C; &#x0444;&#x043E;&#x0440;&#x043C;&#x0438;&#x0440;&#x043E;&#x0432;&#x0430;&#x043D;&#x0438;&#x044F; &#x043E;&#x0442;&#x0447;&#x0435;&#x0442;&#x043D;&#x043E;&#x0441;&#x0442;&#x0438;&#x00BB; - &#x00AB;&#x0420;&#x043E;&#x0441;&#x0441;&#x0438;&#x0439;&#x0441;&#x043A;&#x0430;&#x044F; &#x0424;&#x0435;&#x0434;&#x0435;&#x0440;&#x0430;&#x0446;&#x0438;&#x044F;&#x00BB;</a></span>
+	<span class="b-tree__itemText"><a class="b-breadCrumbs__link" href="sformirovat_otchet__grafiki_otpuskov_komandy__s_otborom_po___kalendar_formirovaniya_otchetnosti_____otchetnost_pao_mostotrest_.htm">1.2.2. &#x0421;&#x0444;&#x043E;&#x0440;&#x043C;&#x0438;&#x0440;&#x043E;&#x0432;&#x0430;&#x0442;&#x044C; &#x043E;&#x0442;&#x0447;&#x0435;&#x0442; &#x00AB;&#x0413;&#x0440;&#x0430;&#x0444;&#x0438;&#x043A;&#x0438; &#x043E;&#x0442;&#x043F;&#x0443;&#x0441;&#x043A;&#x043E;&#x0432; &#x043A;&#x043E;&#x043C;&#x0430;&#x043D;&#x0434;&#x044B;&#x00BB; &#x0441; &#x043E;&#x0442;&#x0431;&#x043E;&#x0440;&#x043E;&#x043C; &#x043F;&#x043E;  &#x00AB;&#x041A;&#x0430;&#x043B;&#x0435;&#x043D;&#x0434;&#x0430;&#x0440;&#x044C; &#x0444;&#x043E;&#x0440;&#x043C;&#x0438;&#x0440;&#x043E;&#x0432;&#x0430;&#x043D;&#x0438;&#x044F; &#x043E;&#x0442;&#x0447;&#x0435;&#x0442;&#x043D;&#x043E;&#x0441;&#x0442;&#x0438;&#x00BB; - &#x00AB;&#x041E;&#x0442;&#x0447;&#x0435;&#x0442;&#x043D;&#x043E;&#x0441;&#x0442;&#x044C; &#x041F;&#x0410;&#x041E; &#x041C;&#x041E;&#x0421;&#x0422;&#x041E;&#x0422;&#x0420;&#x0415;&#x0421;&#x0422;&#x00BB;</a></span>
 </div>	</div>
                     			
                 			                <h6 class="b-article__generatorCopyright">

diff --git a/funktsionalnye_bloki_i_razdely_ucheta.htm b/funktsionalnye_bloki_i_razdely_ucheta.htm
@@ -253,7 +253,7 @@
                 <td id="headerSide__buttons" class="b-article__headerSide m-article__headerSide__buttons">
                     <div class="b-controlButtons">
                         <ul class="b-controlButtons__items">
-                            <li class="b-controlButtons__item m-controlButtons__item__prev"><a href="sformirovat_otchet__grafiki_otpuskov_komandy__s_otborom_po___kalendar_formirovaniya_otchetnosti_____rossijskaya_federatsiya_.htm" class="b-controlButtons__link" title="&#x041F;&#x0440;&#x0435;&#x0434;&#x044B;&#x0434;&#x0443;&#x0449;&#x0430;&#x044F;"><span class="b-controlButtons__link_icon"></span><span class="b-controlButtons__link_text">&#xa0;&#x041F;&#x0440;&#x0435;&#x0434;&#x044B;&#x0434;&#x0443;&#x0449;&#x0430;&#x044F;</span></a></li>
+                            <li class="b-controlButtons__item m-controlButtons__item__prev"><a href="sformirovat_otchet__grafiki_otpuskov_komandy__s_otborom_po___kalendar_formirovaniya_otchetnosti_____otchetnost_pao_mostotrest_.htm" class="b-controlButtons__link" title="&#x041F;&#x0440;&#x0435;&#x0434;&#x044B;&#x0434;&#x0443;&#x0449;&#x0430;&#x044F;"><span class="b-controlButtons__link_icon"></span><span class="b-controlButtons__link_text">&#xa0;&#x041F;&#x0440;&#x0435;&#x0434;&#x044B;&#x0434;&#x0443;&#x0449;&#x0430;&#x044F;</span></a></li>
                             <li class="b-controlButtons__item m-controlButtons__item__next"><a href="asup_funktsionalnye_bloki__sostav.htm" class="b-controlButtons__link" title="&#x0421;&#x043B;&#x0435;&#x0434;&#x0443;&#x044E;&#x0449;&#x0430;&#x044F;"><span class="b-controlButtons__link_text">&#x0421;&#x043B;&#x0435;&#x0434;&#x0443;&#x044E;&#x0449;&#x0430;&#x044F;&#xa0;</span><span class="b-controlButtons__link_icon"></span></a></li>
                                                 </ul>
                     </div>
@@ -283,7 +283,7 @@
                             .addClass("b-article__headerSide m-article__headerSide__buttons")
                             .append(
                                 $("<div></div>").addClass("b-controlButtons")
-                                .html($("<ul></ul>").addClass("b-controlButtons__items").html("    <li class=\"b-controlButtons__item m-controlButtons__item__prev\"><a href=\"sformirovat_otchet__grafiki_otpuskov_komandy__s_otborom_po___kalendar_formirovaniya_otchetnosti_____rossijskaya_federatsiya_.htm\" class=\"b-controlButtons__link\" title=\"&#x041F;&#x0440;&#x0435;&#x0434;&#x044B;&#x0434;&#x0443;&#x0449;&#x0430;&#x044F;\"><span class=\"b-controlButtons__link_icon\"></span><span class=\"b-controlButtons__link_text\">&#xa0;&#x041F;&#x0440;&#x0435;&#x0434;&#x044B;&#x0434;&#x0443;&#x0449;&#x0430;&#x044F;</span></a></li>\n    <li class=\"b-controlButtons__item m-controlButtons__item__next\"><a href=\"asup_funktsionalnye_bloki__sostav.htm\" class=\"b-controlButtons__link\" title=\"&#x0421;&#x043B;&#x0435;&#x0434;&#x0443;&#x044E;&#x0449;&#x0430;&#x044F;\"><span class=\"b-controlButtons__link_text\">&#x0421;&#x043B;&#x0435;&#x0434;&#x0443;&#x044E;&#x0449;&#x0430;&#x044F;&#xa0;</span><span class=\"b-controlButtons__link_icon\"></span></a></li>\n"))
+                                .html($("<ul></ul>").addClass("b-controlButtons__items").html("    <li class=\"b-controlButtons__item m-controlButtons__item__prev\"><a href=\"sformirovat_otchet__grafiki_otpuskov_komandy__s_otborom_po___kalendar_formirovaniya_otchetnosti_____otchetnost_pao_mostotrest_.htm\" class=\"b-controlButtons__link\" title=\"&#x041F;&#x0440;&#x0435;&#x0434;&#x044B;&#x0434;&#x0443;&#x0449;&#x0430;&#x044F;\"><span class=\"b-controlButtons__link_icon\"></span><span class=\"b-controlButtons__link_text\">&#xa0;&#x041F;&#x0440;&#x0435;&#x0434;&#x044B;&#x0434;&#x0443;&#x0449;&#x0430;&#x044F;</span></a></li>\n    <li class=\"b-controlButtons__item m-controlButtons__item__next\"><a href=\"asup_funktsionalnye_bloki__sostav.htm\" class=\"b-controlButtons__link\" title=\"&#x0421;&#x043B;&#x0435;&#x0434;&#x0443;&#x044E;&#x0449;&#x0430;&#x044F;\"><span class=\"b-controlButtons__link_text\">&#x0421;&#x043B;&#x0435;&#x0434;&#x0443;&#x044E;&#x0449;&#x0430;&#x044F;&#xa0;</span><span class=\"b-controlButtons__link_icon\"></span></a></li>\n"))
                             )
                         )
                     )
